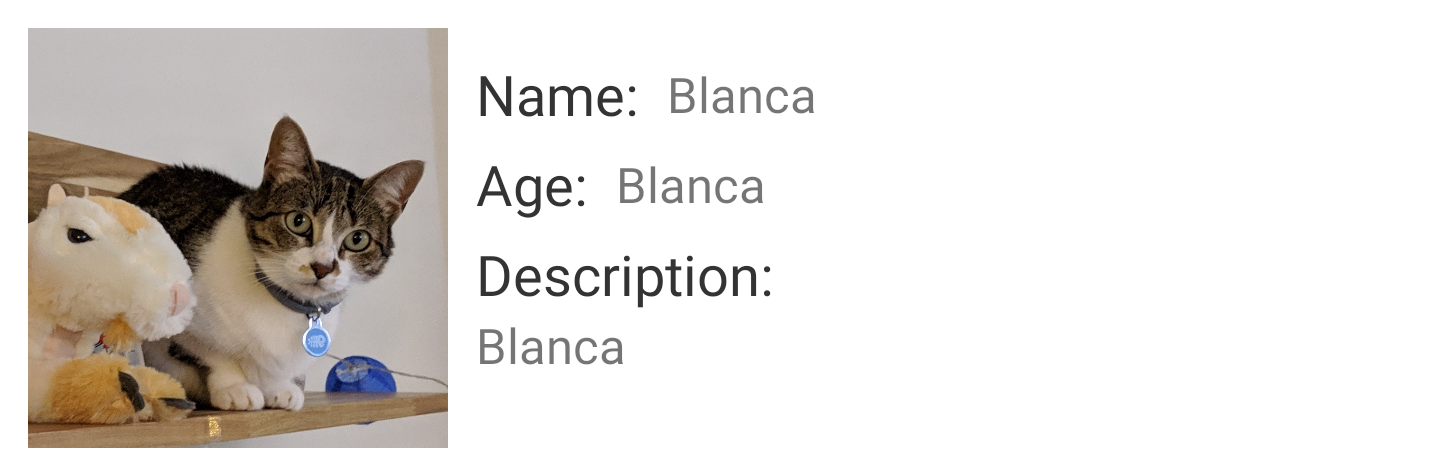
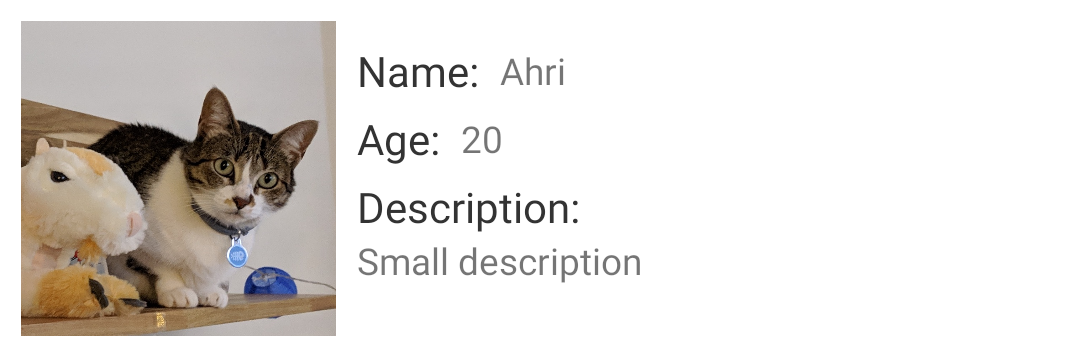
Snapshots + final design

diff --git a/app/src/androidTest/java/com/carlos/snapshottestingmedium/tests/configuration/UserCardConfiguration.kt b/app/src/androidTest/java/com/carlos/snapshottestingmedium/tests/configuration/UserCardConfiguration.kt
@@ -8,13 +8,13 @@ class UserCardConfiguration: TestConfiguration(
     "UserCard",
     R.layout.user_card,
     Variation(
-        { view, string -> view.name.text = string },"Blanca", "Carlos"
+        { view, string -> view.name.text = string },"Ahri", "Chargoggagoggmaggchaubunagungamaugg"
     ),
     Variation(
-        { view, string -> view.description.text = string },"Blanca", "Carlos"
+        { view, string -> view.description.text = string },"Small description", "This is a very very long description with a lot of unnecessary words"
     ),
     Variation(
-        { view, string -> view.age.text = string }, "Blanca", "Carlos"
+        { view, string -> view.age.text = string }, "20", "30"
     ),
     Variation(
         { view, image -> view.userImage.setImageResource(image) }, R.drawable.daxter, R.drawable.ahri
